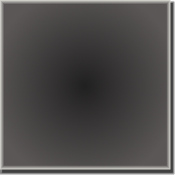
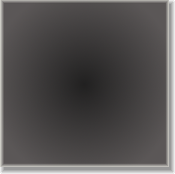
+ Added the new menu look

Changed region(s): [[0.0, 0.0, 1.0, 1.0]]

diff --git a/GREATClient/Display/ESCMenu.cs b/GREATClient/Display/ESCMenu.cs
@@ -45,11 +45,15 @@ namespace GREATClient.Display
 		Menu VideoMenu { get; set; }
 		Menu AudioMenu { get; set; }
 		Menu ExitMenu { get; set; }
-		DrawableRectangle MainRectangle { get; set; }
+		DrawableImage MainBackground { get; set; }
+		Container MainBackgroundLayer { get; set; }
 		DrawableRectangle AudioRectangle { get; set; }
 		DrawableRectangle VideoRectangle { get; set; }
 		Container ExitLayer { get; set; }
 		Container PlacementLayer { get; set; }
+
+		// Gear
+		DrawableImage Gear { get; set; }
 
         public ESCMenu()
         {
@@ -141,16 +145,18 @@ namespace GREATClient.Display
 				}
 			};
 
+			MainBackgroundLayer = new Container();
+
 			ExitMenu = new Menu(exit1, exit2);
 			ExitMenu.AlignItemsHorizontally(80);
 			ExitMenu.AllowKeyboard = true;
 			ExitMenu.Position = new Vector2(130,50);
 
-			MainRectangle = new DrawableRectangle(new Vector2(150, 120), new Vector2(0, 0), Color.DarkGray);
-			MenuSize = new Vector2(150,120);
+			MainBackground = new DrawableImage("UIObjects/menu");
+			MenuSize = new Vector2(200,170);
 			AudioRectangle = new DrawableRectangle(new Vector2(200, 85), new Vector2(0, 0), Color.DarkGray);
 			VideoRectangle = new DrawableRectangle(new Vector2(200, 120), new Vector2(0, 0), Color.DarkGray);
-			MainRectangle.Visible = false;
+			MainBackgroundLayer.Visible = false;
 			AudioRectangle.Visible = false;
 			VideoRectangle.Visible = false;
 
@@ -160,21 +166,28 @@ namespace GREATClient.Display
 			ExitLayer.AddChild(ExitMenu);
 			ExitLayer.Visible = false;
 
+			MainMenu.Position = new Vector2(30,25);
+
+			Gear = new DrawableImage("UIObjects/menuGear");
+			Gear.Position = new Vector2(-40,-25);
+
 			PlacementLayer = new Container();
-			PlacementLayer.Position = new Vector2(-MenuSize.X / 2, -MenuSize.Y);
+			PlacementLayer.Position = new Vector2(-MenuSize.X / 2, -MenuSize.Y /2);
 		}
 
 		protected override void OnLoad(ContentManager content, GraphicsDevice gd)
 		{
 			AddChild(PlacementLayer);
 
-			PlacementLayer.AddChild(MainMenu);
-			PlacementLayer.AddChild(AudioMenu);
-			PlacementLayer.AddChild(VideoMenu);
-			PlacementLayer.AddChild(MainRectangle,0);
-			PlacementLayer.AddChild(AudioRectangle,0);
-			PlacementLayer.AddChild(VideoRectangle,0);
-			PlacementLayer.AddChild(ExitLayer,0);
+			PlacementLayer.AddChild(MainMenu,2);
+			PlacementLayer.AddChild(AudioMenu,2);
+			PlacementLayer.AddChild(VideoMenu,2);
+			PlacementLayer.AddChild(MainBackgroundLayer,1);
+			PlacementLayer.AddChild(AudioRectangle,1);
+			PlacementLayer.AddChild(VideoRectangle,1);
+			PlacementLayer.AddChild(ExitLayer,1);
+			MainBackgroundLayer.AddChild(Gear,0);
+			MainBackgroundLayer.AddChild(MainBackground,1);
 
 			inputManager.RegisterEvent(InputActions.Escape, new EventHandler(OpenOrCloseMainMenu));
 
@@ -188,29 +201,29 @@ namespace GREATClient.Display
 		{
 			if (State == MenuState.AllClosed) {
 				State = MenuState.MainOpened;
-				MainRectangle.Visible = true;
+				MainBackgroundLayer.Visible = true;
 				MainMenu.Active(true);
 			} else if (State == MenuState.MainOpened) {
 				State = MenuState.AllClosed;
-				MainRectangle.Visible = false;
+				MainBackgroundLayer.Visible = false;
 				MainMenu.UnselectItems();
 				MainMenu.Active(false);
 			} else if (State == MenuState.AudioOpened) {
 				State = MenuState.MainOpened;
 				AudioRectangle.Visible = false;
-				MainRectangle.Visible = true;
+				MainBackgroundLayer.Visible = true;
 				AudioMenu.Active(false);
 				MainMenu.Active(true);
 			} else if (State == MenuState.VideoOpened) {
 				State = MenuState.MainOpened;
 				VideoRectangle.Visible = false;
-				MainRectangle.Visible = true;
+				MainBackgroundLayer.Visible = true;
 				VideoMenu.Active(false);
 				MainMenu.Active(true);
 			} else if (State == MenuState.ExitOpened) {
 				State = MenuState.MainOpened;
 				ExitLayer.Visible = false;
-				MainRectangle.Visible = true;
+				MainBackgroundLayer.Visible = true;
 				ExitMenu.Active(false);
 				MainMenu.Active(true);
 			}
@@ -222,7 +235,7 @@ namespace GREATClient.Display
 			AudioMenu.Active(true);
 			State = MenuState.AudioOpened;
 			AudioRectangle.Visible = true;
-			MainRectangle.Visible = false;
+			MainBackgroundLayer.Visible = false;
 		}
 
 		void OpenVideo()
@@ -231,7 +244,7 @@ namespace GREATClient.Display
 			VideoMenu.Active(true);
 			State = MenuState.VideoOpened;
 			VideoRectangle.Visible = true;
-			MainRectangle.Visible = false;
+			MainBackgroundLayer.Visible = false;
 		}
 
 		void OpenExit()
@@ -239,7 +252,7 @@ namespace GREATClient.Display
 			MainMenu.Active(false);
 			ExitMenu.Active(true);
 			State = MenuState.ExitOpened;
-			MainRectangle.Visible = false;
+			MainBackgroundLayer.Visible = false;
 			ExitLayer.Visible = true;
 		}
     }

diff --git a/GREATClient/GameContent/CurrentChampionState.cs b/GREATClient/GameContent/CurrentChampionState.cs
@@ -24,8 +24,35 @@ namespace GameContent
 {
     public class CurrentChampionState
     {
+		/// <summary>
+		/// Gets or sets the max life.
+		/// </summary>
+		/// <value>The max life.</value>
+		public int MaxLife { get; set; }
+
+		/// <summary>
+		/// Gets or sets the current life.
+		/// </summary>
+		/// <value>The current life.</value>
+		public int CurrentLife { get; set; }
+
+		/// <summary>
+		/// Gets or sets the max resource.
+		/// The resource is the mana/energie/etc.
+		/// </summary>
+		/// <value>The max resource.</value>
+		public int MaxResource { get; set; }
+
+		/// <summary>
+		/// Gets or sets the current resource.
+		/// The resource is the mana/energie/etc.
+		/// </summary>
+		/// <value>The current resource.</value>
+		public int CurrentResource { get; set; }
+
         public CurrentChampionState()
         {
+
         }
     }
 }

diff --git a/GREATClient/BaseClass/Menu/Menu.cs b/GREATClient/BaseClass/Menu/Menu.cs
@@ -401,17 +401,11 @@ namespace GREATClient.BaseClass.Menu
 		{
 			Debug.Assert(inputManager != null);
 			if (Clickable && Visible) {
-				bool noHit = true;
 				for (int i = 0; i < ItemList.Count; ++i) {
 					if (ItemList[i].IsBehind(inputManager.MousePosition)) {
 						SelectedItem = i;
 						SelecteGivenItem(null,null);
-						noHit = false;
 					}
-				}
-				if (noHit) {
-					SelectedItem = -1;
-					SelecteGivenItem(null,null);
 				}
 			}
 		}

diff --git a/GREATClient/Display/GameUI.cs b/GREATClient/Display/GameUI.cs
@@ -66,7 +66,7 @@ namespace GREATClient.Display
 			AddChild(StatBackground);*/
 
 			UISpellMenu = new SpellMenu();
-			AddChild(UISpellMenu,2);
+			AddChild(UISpellMenu,3);
         }
 
 		protected override void OnLoad(ContentManager content, GraphicsDevice gd)
